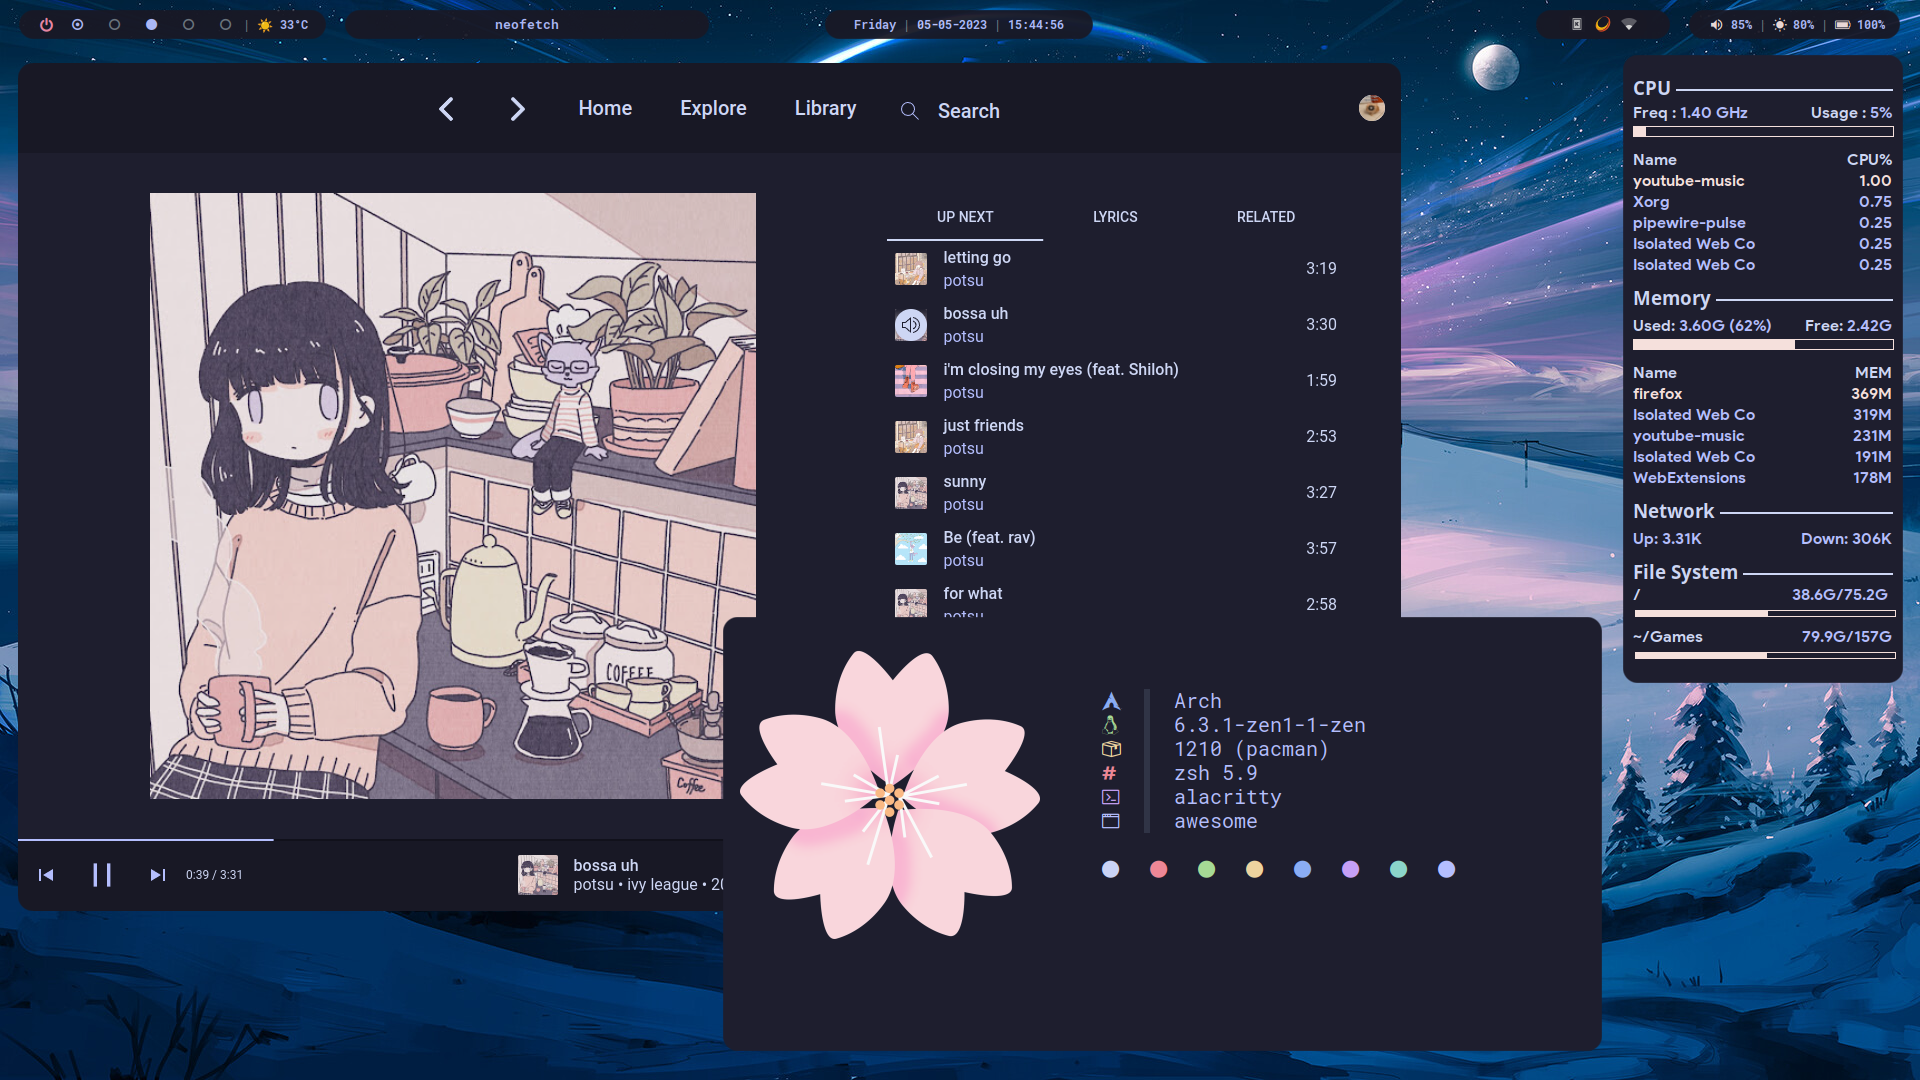
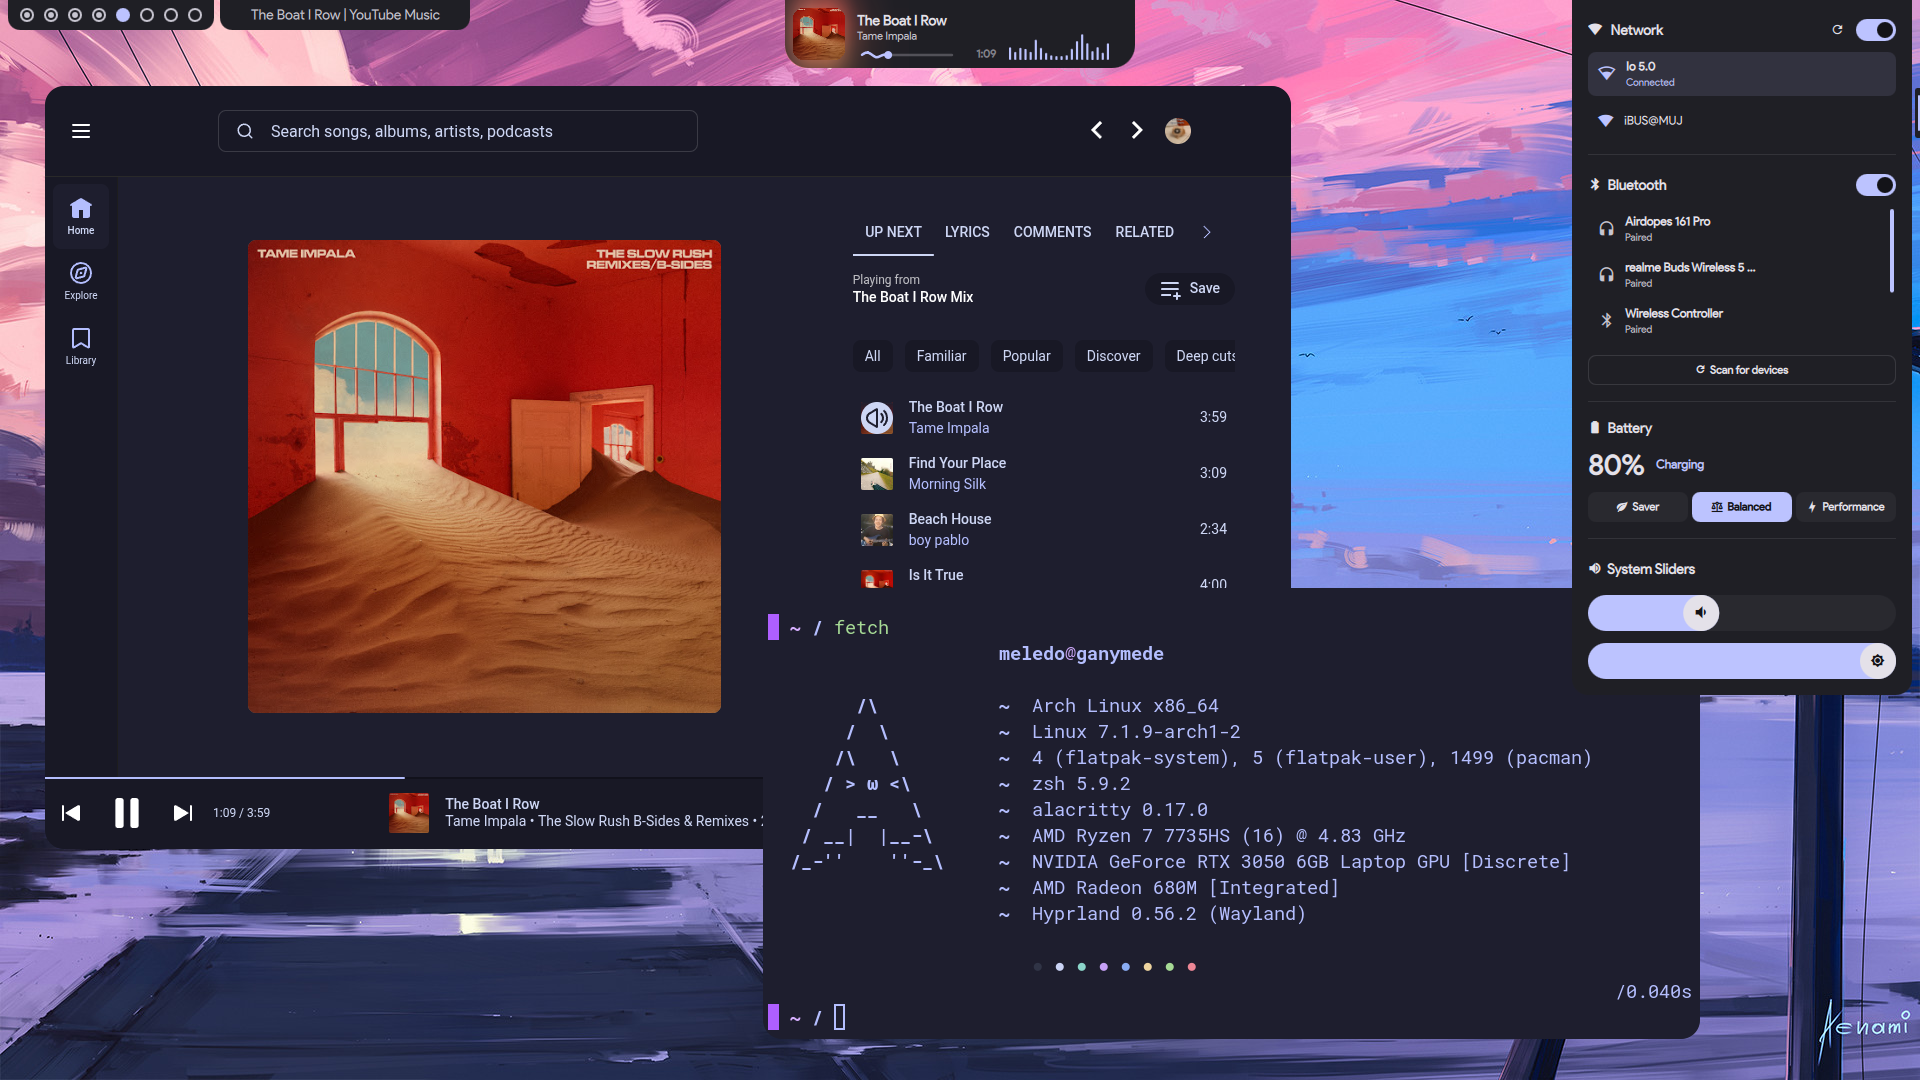
chore: remove old script keybind, hardcoded wallpaper dir,  update README, add images

diff --git a/README.md b/README.md
@@ -1,12 +1,8 @@
-# Config files for AwesomeWM
+# mshell dots - Hyprland Rice
 
 <img src="https://img.shields.io/github/stars/MeledoJames/awesome-setup?color=b4befe&labelColor=1e1e2e&style=for-the-badge" align="right" />
 
-### This was made on a 1920x1080 display 
-
-Wallpaper - [ArtStation](https://www.artstation.com/artwork/4Xa124)
-
----
+### This was made on a 1920x1080 display
 
 ### Video showcasing the animations
 
@@ -14,120 +10,155 @@ https://github.com/mel-edo/awesome-setup/assets/90543784/25acfe82-682d-4f04-9ef8
 
 ---
 
-- **Window Manager:** [awesome-git](https://github.com/awesomeWM/awesome)
+- **Window Manager:** [Hyprland](https://github.com/hyprwm/Hyprland)
 - **Terminal:** [alacritty](https://github.com/alacritty/alacritty)
 - **Shell:** [zsh](https://www.zsh.org/)
-- **Bar:** [polybar](https://github.com/polybar/polybar)
-- **Compositor:** [pijulius-picom](https://github.com/pijulius/picom)
-- **Editor:** [neovim(nvchad)](https://github.com/NvChad/NvChad)
-- **Browser:** [firefox](https://www.mozilla.org/en-US/firefox)
-- **Firefox CSS:** [Cascade](https://github.com/andreasgrafen/cascade)
-- **File Manager:** [nemo](https://github.com/linuxmint/nemo)
-- **Application Launcher:** [adi1090x's rofi](https://github.com/adi1090x/rofi)
-- **SDDM theme:** [Sugar Candy theme for SDDM](https://www.opendesktop.org/p/1312658/)
-- **Color scheme:** [Catppuccin](https://github.com/catppuccin/catppuccin)
-- **Startpage:** [Chevron](https://github.com/kholmogorov27/chevron)
+- **Desktop shell / bar:** [Quickshell](https://github.com/quickshell-mirror/quickshell)
+- **Color theming:** [matugen](https://github.com/InioX/matugen)
+- **System fetch:** [fastfetch](https://github.com/fastfetch-cli/fastfetch)
+- **Cursor theme:** [catppuccin-dark](https://github.com/catppuccin/cursors)
+- **Folder theme:** [Papirus](https://github.com/PapirusDevelopmentTeam/papirus-icon-theme) with [Catppuccin folder colors](https://github.com/catppuccin/papirus-folders)
+- **GTK theme:** [catppuccin](https://github.com/catppuccin/gtk)
+- **QT theme:** [catppuccin with kvantum](https://github.com/catppuccin/Kvantum)
 
 ---
 
-## Install Instructions:
+## Configuration you need to change
+ 
+This rice is tuned to my machine. You'll want to edit these.
+ 
+| File | What to change |
+|---|---|
+| `config/quickshell/mshell/scripts/calendar/weather.sh` | `API_KEY` and `CITY`. Get from [openweathermap.org](https://openweathermap.org/api) |
+| `config/hypr/settings.json` → `wallpaperDir` | Add path to your wallpaper dir. Wallpaper picker looks in your wallpaper dir by default and also picks up Wallpaper Engine wallpapers if you have those. |
+| `config/hypr/hyprland.lua` → `hl.monitor(...)` | `output = ""`, `mode = "1920x1080@120"` | Blank output matches your first/only monitor; set it explicitly and adjust the mode/refresh rate for multi-monitor setups. |
+| `config/hypr/hyprland.lua` → env vars | `NVD_BACKEND`, `LIBVA_DRIVER_NAME`, `__GLX_VENDOR_LIBRARY_NAME`. Modify according to your [hardware](https://wiki.hypr.land/Nvidia/) |
+| `config/hypr/hypridle.conf` | Modify lock, suspend timers |
+ 
+---
+ 
+## Install Instructions
+ 
+### Required programs
+ 
+(For yay on Arch Linux)
+ 
+```
+yay -S --needed hyprland hypridle hyprpicker quickshell-git matugen cava awww grim slurp wl-clipboard tesseract playerctl brightnessctl 
+```
 
-### List of the required programs for this rice
-
-(For yay in Arch Linux)
+#### Optional Programs
 
 ```
-yay -S --needed awesome-git polybar picom-pijulius-git alacritty betterlockscreen catppuccin-gtk-theme-mocha conky logo-ls lxappearance neovim neofetch papirus-icon-theme feh rofi xidlehook sddm qt5-graphicaleffects qt5-quickcontrols2 qt5-svg
+copyq, hyprsunset, fastfetch, mpv, polkit-gnome, pokemon-colorscripts-git, gpu-screen-recorder, catppuccin-cursors-mocha, catppuccin-gtk-theme-mocha
 ```
-
-### Optional programs
-
-1. zsh and ohmyzsh
-2. brightnessctl
-3. cool-retro-term with cmatrix used as a screensaver
-4. neofetch
-5. neovim
-6. nemo (file manager)
-7. redshift
-
-### Manual Method:
-
-Thanks to [ka1ry](https://github.com/ka1ry) for testing on different hardware!
-
-> **Warning**
->
->Proceed with caution
-
-1. ``` git clone https://github.com/MeledoJames/awesome-setup ```
-2. Backup your .config folder or make it if it doesen't already exist
-3. ``` cp -r ~/awesome-setup/config/* ~/.config ```
-4. ``` cp -r ~/awesome-setup/fonts/* ~/.local/share/fonts ```
-5. ``` fc-cache -v -f ```
-6. ``` sudo cp -r ~/.config/sddm/sugar-candy /usr/share/sddm/themes/ ```
-7. ``` sudo cp -r ~/.config/sddm/sddm.conf /etc/ ```
-8. ``` systemctl enable betterlockscreen@$USER ```
-9. ``` cp -r ~/awesome-setup/cmatrix.sh ~/awesome-setup/grubupdate.sh ~/awesome-setup/.xinitrc ~/awesome-setup/.Xresources ~/awesome-setup/.zprofile ~/awesome-setup/.zshrc ~/ ```
-
-> You can view all keybindings in awesomewm using Mod + s
-
-> Download the wallpaper from the artstation link and put it in your ``` ~/Downloads ```
-
-> Change your latitude and longitude in ``` ~/.config/polybar/weather.py ``` on lines 80 and 81 and ``` ~/.config/redshift/redshift.conf ``` on lines 60 and 61
-
-> Check ``` ~/.config/awesome/autorun.sh ``` and lines 623 - 630 in ``` ~/.config/awesome/rc.lua ``` for startup programs. Modify to your liking
-
-> Theme your remaining apps from the [Catppuccin Github](https://github.com/catppuccin/catppuccin)
-
+ 
+### Manual method
+ 
+1. `git clone -b Hyprland https://github.com/mel-edo/awesome-setup mshell-dots`
+2. Backup your `~/.config` folder (or create it if it doesn't exist)
+3. `cp -r ~/mshell-dots/config/* ~/.config`
+4. `cp -r ~/mshell-dots/fonts/* ~/.local/share/fonts`
+5. `fc-cache -v -f`
+6. `cp ~/mshell-dots/.zprofile ~/mshell-dots/.zshrc ~/`
+7. Go through **Configuration you need to change** above before launching
+8. mshell launches automatically via Hyprland's autostart. Run it manually using launch script - `~/.config/quickshell/mshell/launch.sh`
 ---
-
-### Missing Icons in polybar?
-
-> Missing Brightness Icon - [Backlight](https://github.com/polybar/polybar/wiki/Module:-backlight) and [xbacklight](https://github.com/polybar/polybar/wiki/Module:-xbacklight) modules
-
-> Missing Battery Icon - You probably don't have a battery in which case you can remove the battery module from line 85 of ``` ~/.config/polybar/config.ini ```
-
-> Missing Network Icon - [Polybar network wiki](https://github.com/polybar/polybar/wiki/Module:-network)
-
+ 
+## Autostart
+ 
+Runs on Hyprland startup. Change as you wish
+ 
+1. `dbus-update-activation-environment`
+2. polkit-gnome auth agent
+3. `hyprsunset -t 5000`
+4. `hypridle`
+5. `awww-daemon`
+6. `discord`, `zen-browser`
+7. `kdeconnect-indicator`
+8. `launch.sh` - Starts the Quickshell desktop shell 
+9. Applies `catppuccin-mocha-dark-cursors`
+ 
 ---
-
-### Firefox userchrome css
-
-1. cd into ~/.mozilla/firefox/(release).default-release/chrome (make chrome folder if it doesen't exist already)
-2. copy files inside ~/awesome-setup/firefox/chrome to the folder in the above point
-3. Install Tab center reborn extension -> More details here [Cascade](https://github.com/andreasgrafen/cascade#tab-center-reborn--vertical-tabs)
-
+ 
+## Keybinds
+ 
+`mainMod` = **SUPER**
+ 
+| Keybind | Action |
+|---|---|
+| `SUPER + Return` | Open terminal (alacritty) |
+| `SUPER + Q` | Close window |
+| `SUPER + F` | Toggle fullscreen |
+| `SUPER + E` | Open file manager (nemo) |
+| `SUPER + Space` | Toggle floating, resize + center |
+| `ALT + Tab` | Cycle to next window / bring to top |
+| `SUPER + A` | Toggle launcher |
+| `SUPER + Escape` | Toggle power menu |
+| `SUPER + W` | Toggle overview |
+| `SUPER + L` | Lock screen |
+| `SUPER + Z` / `SUPER + X` | Kill / relaunch quickshell |
+| `SUPER + 1–8` | Focus workspace 1–8 |
+| `SUPER + Shift + 1–8` | Move window to workspace 1–8 |
+| `SUPER + S` / `SUPER + Shift + S` | Toggle special workspace / move window to it |
+| `SUPER + mouse:272 / mouse:273` | Drag / resize window using left and right click |
+| `Next` (PgDn) / `F12` | Screenshot region → saved + copied to clipboard |
+| `Shift + Next` / `Shift + F12` | OCR screenshot region → copied to clipboard (tesseract) |
+| `Shift + Alt + 0` | Toggle screen recording (`gsr-toggle.sh`) |
+| `SUPER + V` | Toggle clipboard manager (copyq) |
+| `SUPER + P` | Color picker (hyprpicker) |
+| `SUPER + N` / `SUPER + Ctrl + N` | Minimize / restore last window [niflveil](https://github.com/Mauitron/NiflVeil) |
+| `SUPER + Up/Down` or volume keys | Volume +/- 5% |
+| `SUPER + Left/Right` or brightness keys | Brightness +/- 5% |
+| `XF86Audio(Mute/MicMute)` | Toggle mute / mic mute |
+| `XF86Audio(Next/Prev/Play/Pause)`, `Prior`, `F11` | Media controls (playerctl) |
+| `XF86Calculator` | Open galculator |
+| `SUPER + scroll` | Adjust cursor zoom |
+| 3-finger swipe horizontal | Switch workspace |
+| 3-finger swipe down / up | Minimize / restore [niflveil](https://github.com/Mauitron/NiflVeil) |
+| 4-finger swipe down | Close window |
+| 4-finger swipe up | Toggle launcher |
+ 
+> `niflveil` is a window-minimizer for Hyprland by [Mauitron](https://github.com/Mauitron/NiflVeil), not included in this repo. It needs to be built and installed separately:
+> ```
+> git clone https://github.com/Mauitron/NiflVeil.git
+> cd NiflVeil/niflveil
+> cargo build --release
+> sudo cp target/release/niflveil /usr/local/bin/
+> ```
+> Go through it's repo for more info!
+ 
 ---
-
-### Firefox keybindings via vimium
-
-1. Get the extension [Vimium](https://vimium.github.io/)
-2. Copy text from firefox/vimium/vimium.css and paste it into "css for vimium ui" in the vimium settings
-
+ 
+## Window & layer rules
+ 
+| App / match | Behavior |
+|---|---|
+| zen (browser) | → workspace 1 (silent) |
+| discord | → workspace 2 (silent) |
+| Obsidian | → workspace 3 (silent) |
+| codium, steam | → workspace 4 (silent) |
+| youtube-music | → workspace 5 (silent) |
+| PrismLauncher, twintaillauncher, Lutris | → workspace 6 (silent), floating & centered |
+| Betterbird | → workspace 7 (silent) |
+| yad, copyq, nm-connection-editor, pavucontrol, blueberry, file-roller, Godot, qBittorrent | Floating, fixed size, centered |
+| Picture-in-Picture windows | Floating, pinned to position (1280, 35) |
+| "Friends List" (Steam) | Floating |
+| Empty-class/title XWayland floats | No focus (suppresses stray ghost windows) |
+| All windows | Maximize event suppressed |
+| `quickshell:expose` layer | Blurred + dimmed background |
+| `quickshell:*` layers, `selection` layer | No animation |
+ 
 ---
-### Startpage
-
-1. Install npm ``` yay -S npm ```
-2. ``` sudo npm install http-server -g ```
-3. run ``` http-server ~/.config/chevron/dist/ ``` and visit http://127.0.0.1:8080 in your browser
-4. I've already added this command in autostart (check end of rc.lua)
-5. If you're on firefox you can use [new tab override](https://addons.mozilla.org/en-US/firefox/addon/new-tab-override/) to change the new tab and home page
-6. For more details -> [Chevron](https://github.com/kholmogorov27/chevron) 
-
----
-
+ 
+### Screenshots
+ 
 ![a](/images/1.png?raw=true)
-
 ![b](/images/2.png?raw=true)
-
-![c](/images/3.png?raw=true)
-
-![d](/images/4.png?raw=true)
-
-![e](/images/5.png?raw=true)
-
-![f](/images/6.png?raw=true)
-
-![g](/images/7.png?raw=true)
+![b](/images/3.png?raw=true)
+![b](/images/4.png?raw=true)
+![b](/images/5.png?raw=true)
+ 
 ---
 
 ### Sources of inspiration:
